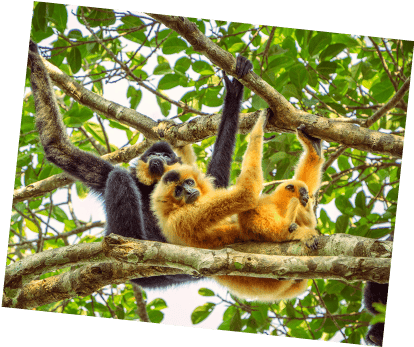
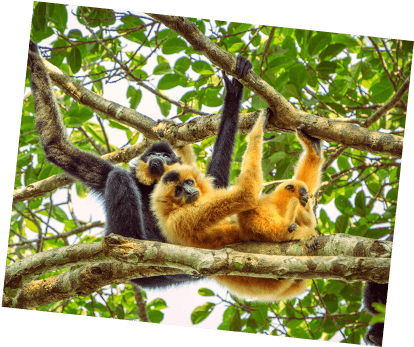
Pushed from Locofy Builder

diff --git a/index.css b/index.css
@@ -255,7 +255,7 @@
   top: 3.52%;
   bottom: 26.5%;
   left: calc(50% - 100.2px);
-  width: 206.4px;
+  width: 206.2px;
   object-fit: cover;
 }
 .vector-icon1 {
